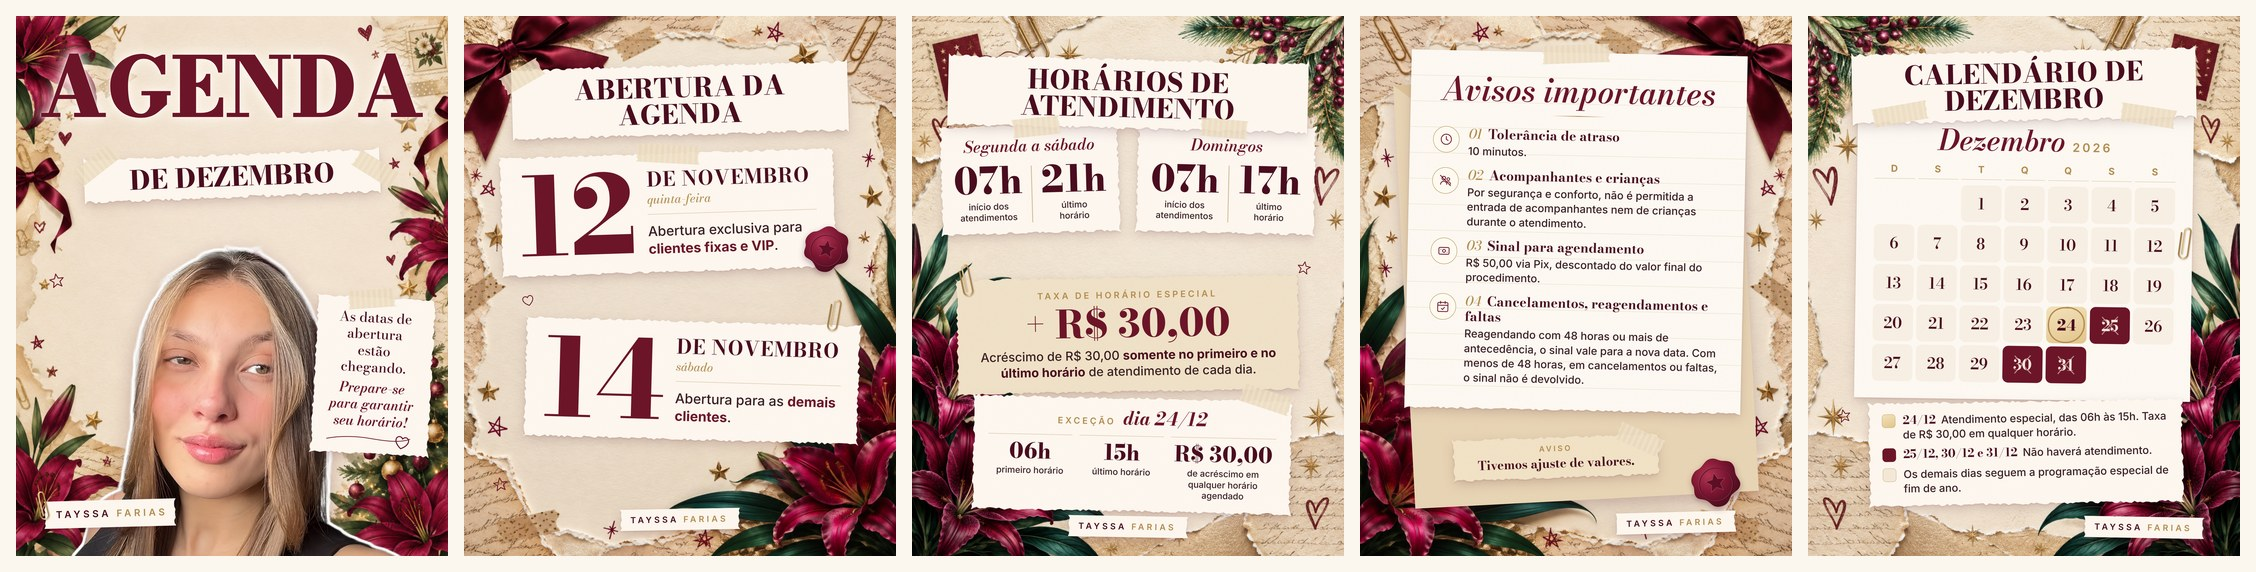
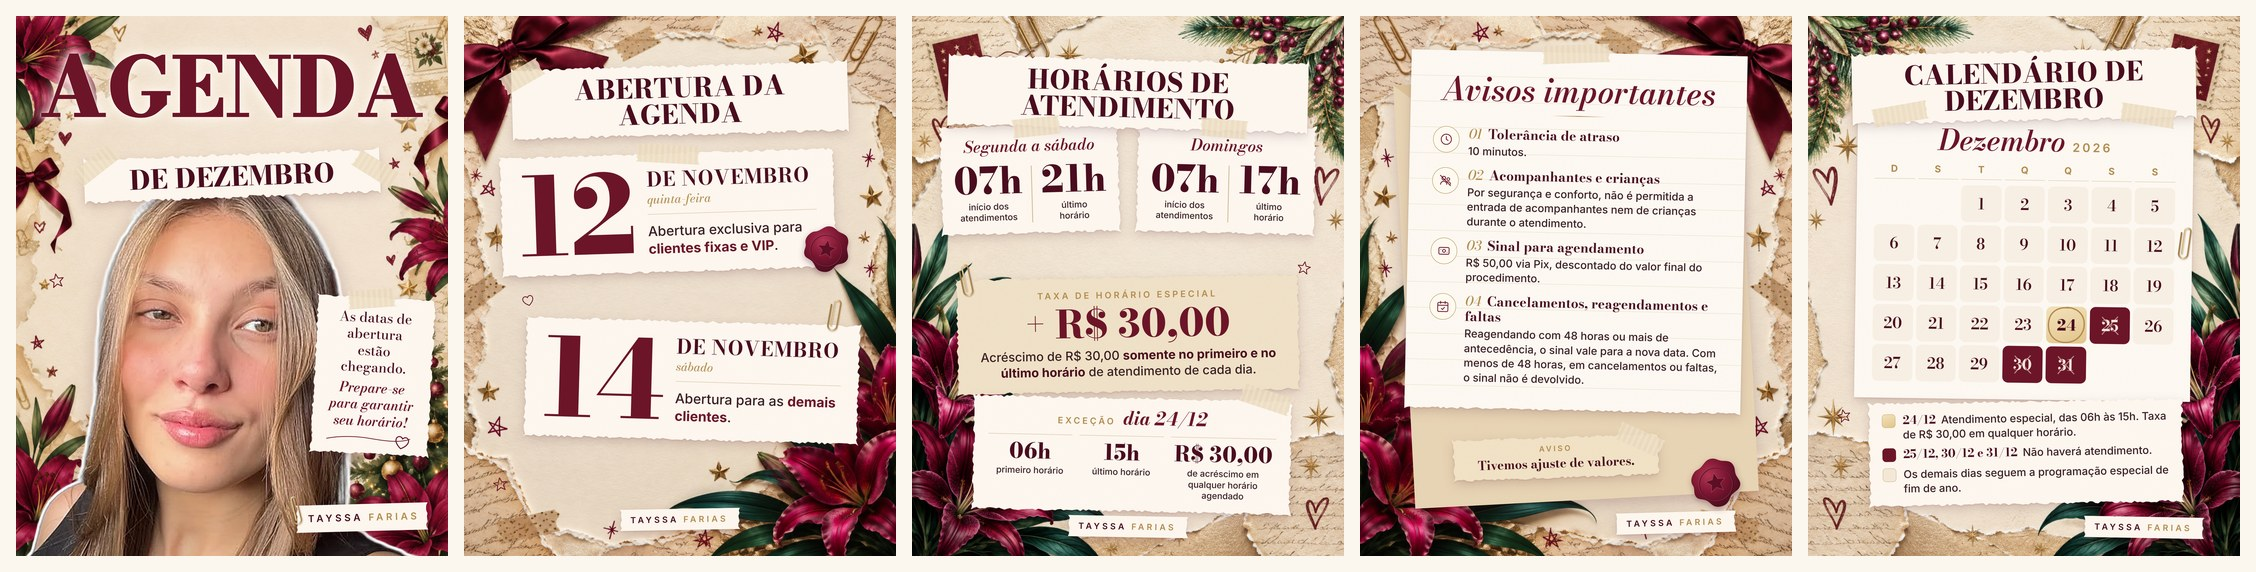
Tayssa: capa de dezembro com a Tayssa maior e mais alta, da foto original
Foto original ampliada só 2x (sem IA), rosto livre; sai o "deslize" e
a etiqueta da marca vai para a direita.

Claude-Session: https://claude.ai/code/session_01C7Fqj9QNbeqjAG4x5LcgP7

Changed region(s): [[0.0, 0.3269, 0.2172, 0.9808]]

diff --git a/docs/tayssa/carrossel-dezembro/gerador/style.css b/docs/tayssa/carrossel-dezembro/gerador/style.css
@@ -134,3 +134,5 @@ body { font-family: var(--sans); color: var(--tinta); -webkit-font-smoothing: an
 .grande { font-variation-settings: 'opsz' 6 !important; font-weight: 900; }
 .grande--cheio { -webkit-text-stroke: 3px var(--bordo); paint-order: stroke fill;
   filter: drop-shadow(0 0 2px rgba(255,250,242,.95)) drop-shadow(0 0 10px rgba(255,250,242,.9)) drop-shadow(0 0 22px rgba(255,250,242,.75)); }
+
+.deslize { right: auto; left: 70px; bottom: 60px; }

diff --git a/docs/tayssa/carrossel-dezembro/README.md b/docs/tayssa/carrossel-dezembro/README.md
@@ -31,7 +31,7 @@ Base marfim e champagne, bordô nos títulos e detalhes, dourado nos fios e clip
 - **Fundos:** gerados pela IA do Canva (arte rascunho "Fundo de Natal em aquarela", design `DAHainzdQbk`, páginas 9 a 11).
 - **Papéis, fita, clipe, lacre, envelope e calendário:** desenhados em código, para as datas e os textos saírem certos.
 - **Fontes:** Bodoni Moda com ajuste óptico de texto (`opsz` 11, para os traços finos não sumirem no celular) e Inter.
-- **Foto:** a selfie do sorriso, a mesma da capa do carrossel de Natal (ampliada com Real-ESRGAN).
+- **Foto:** a selfie do sorriso, da foto original (só ampliada 2x, sem IA), maior e mais para cima, com o alto do cabelo passando atrás da faixa "DE DEZEMBRO" (pedido do Lucas).
 
 ## Pendências no site
 
